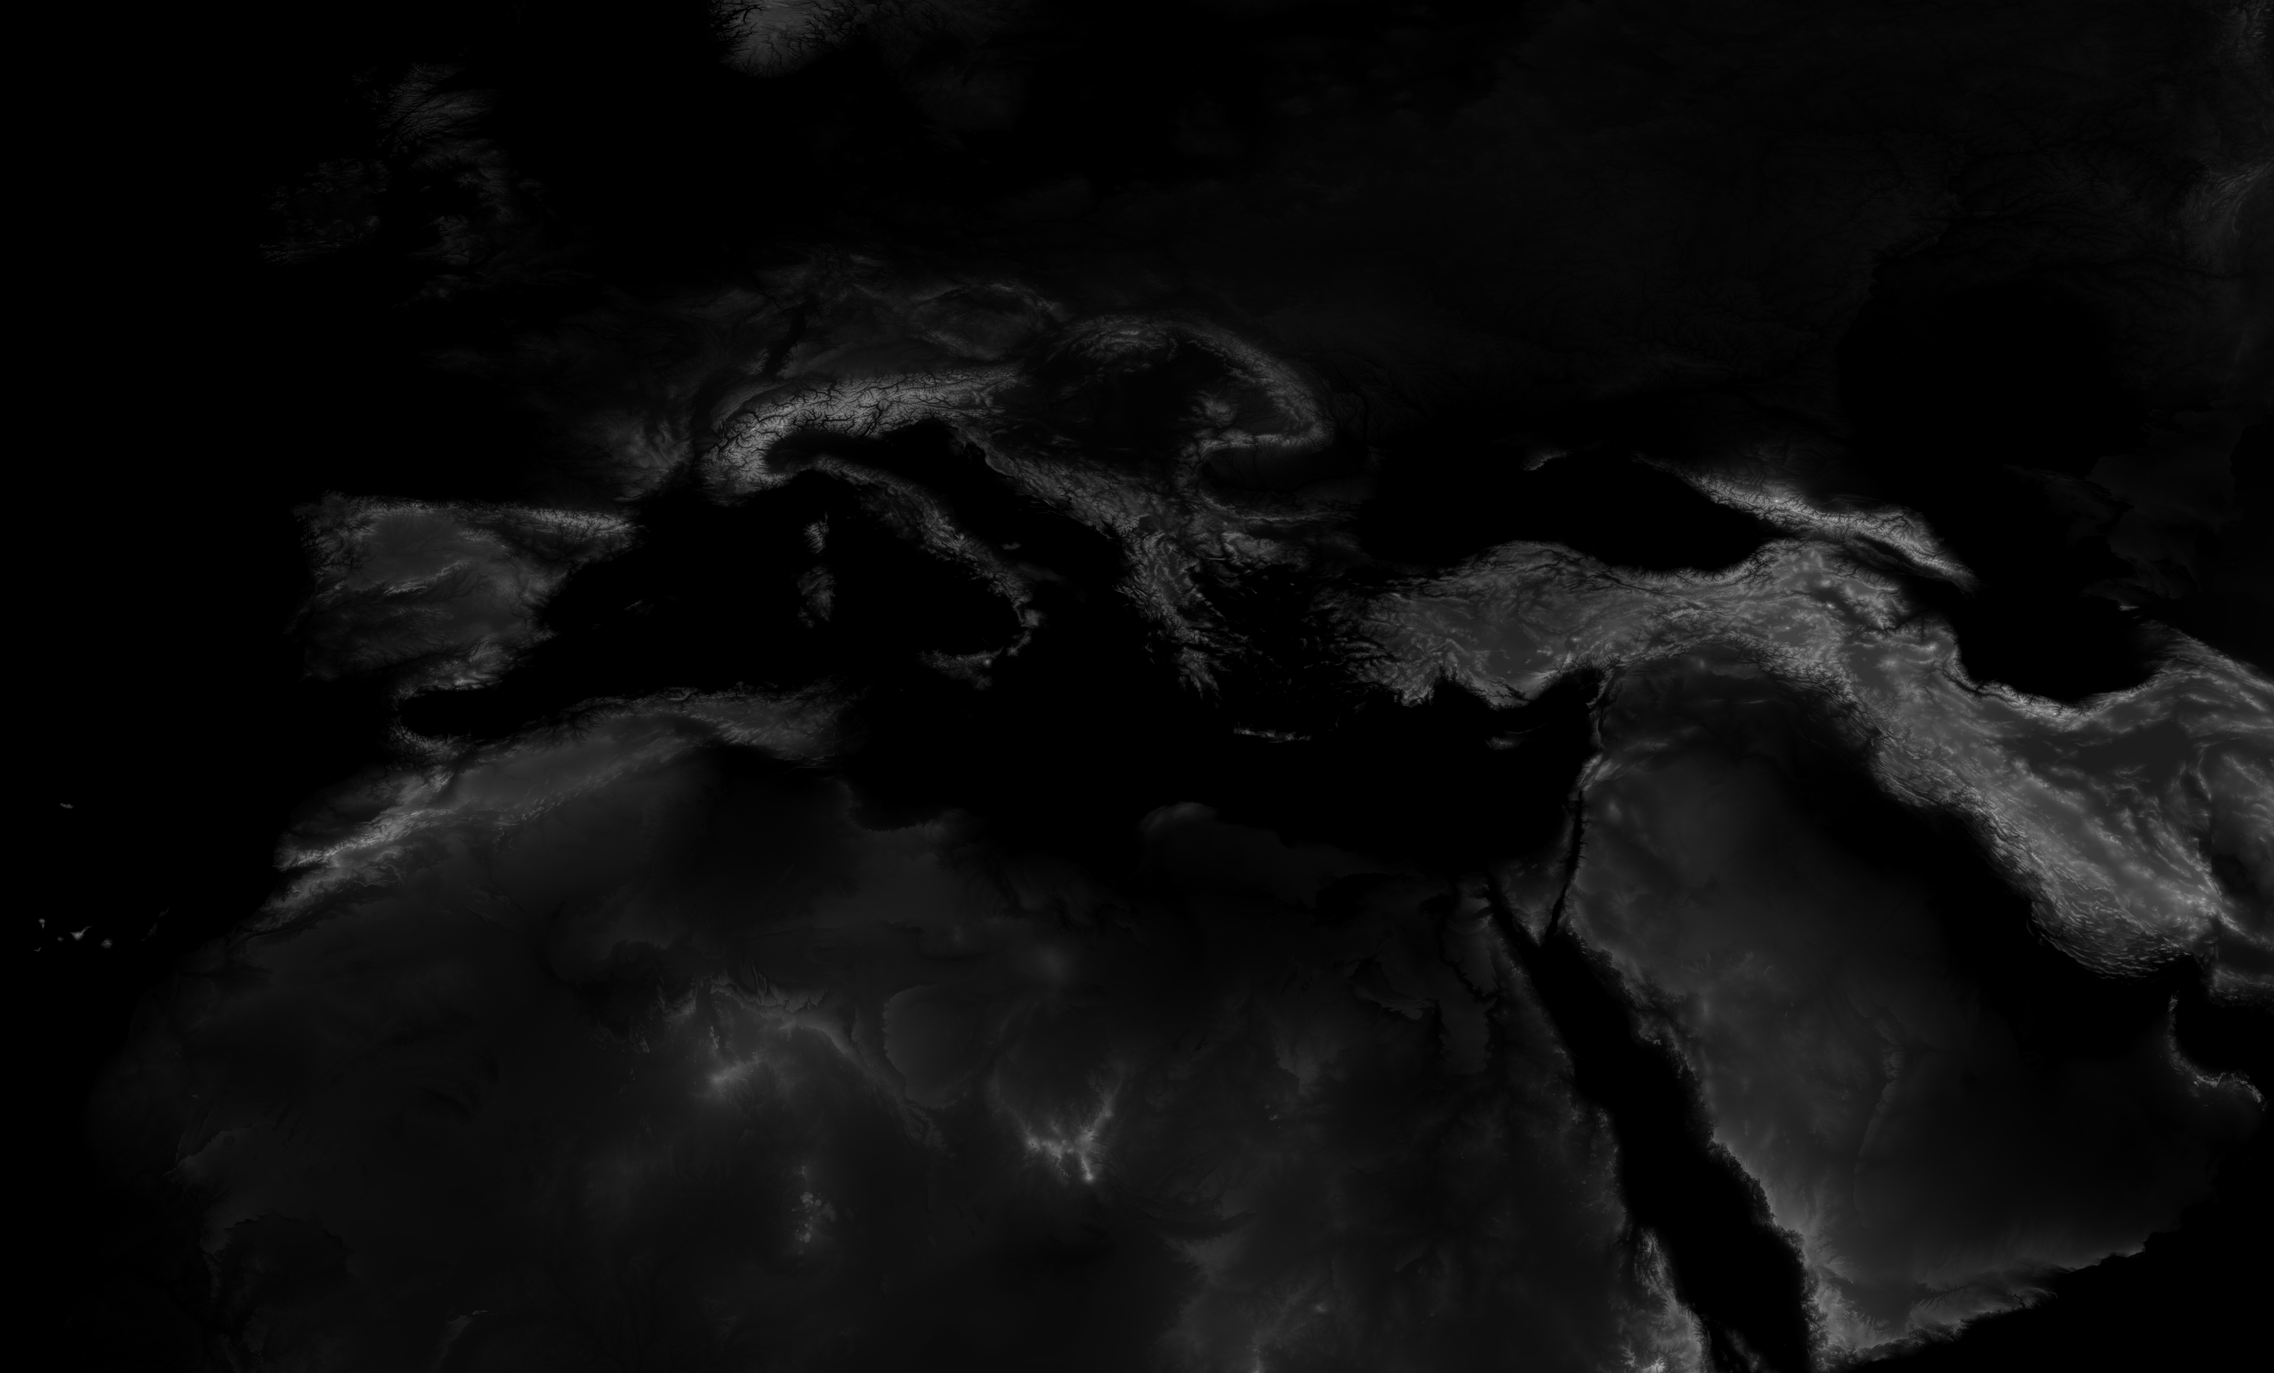
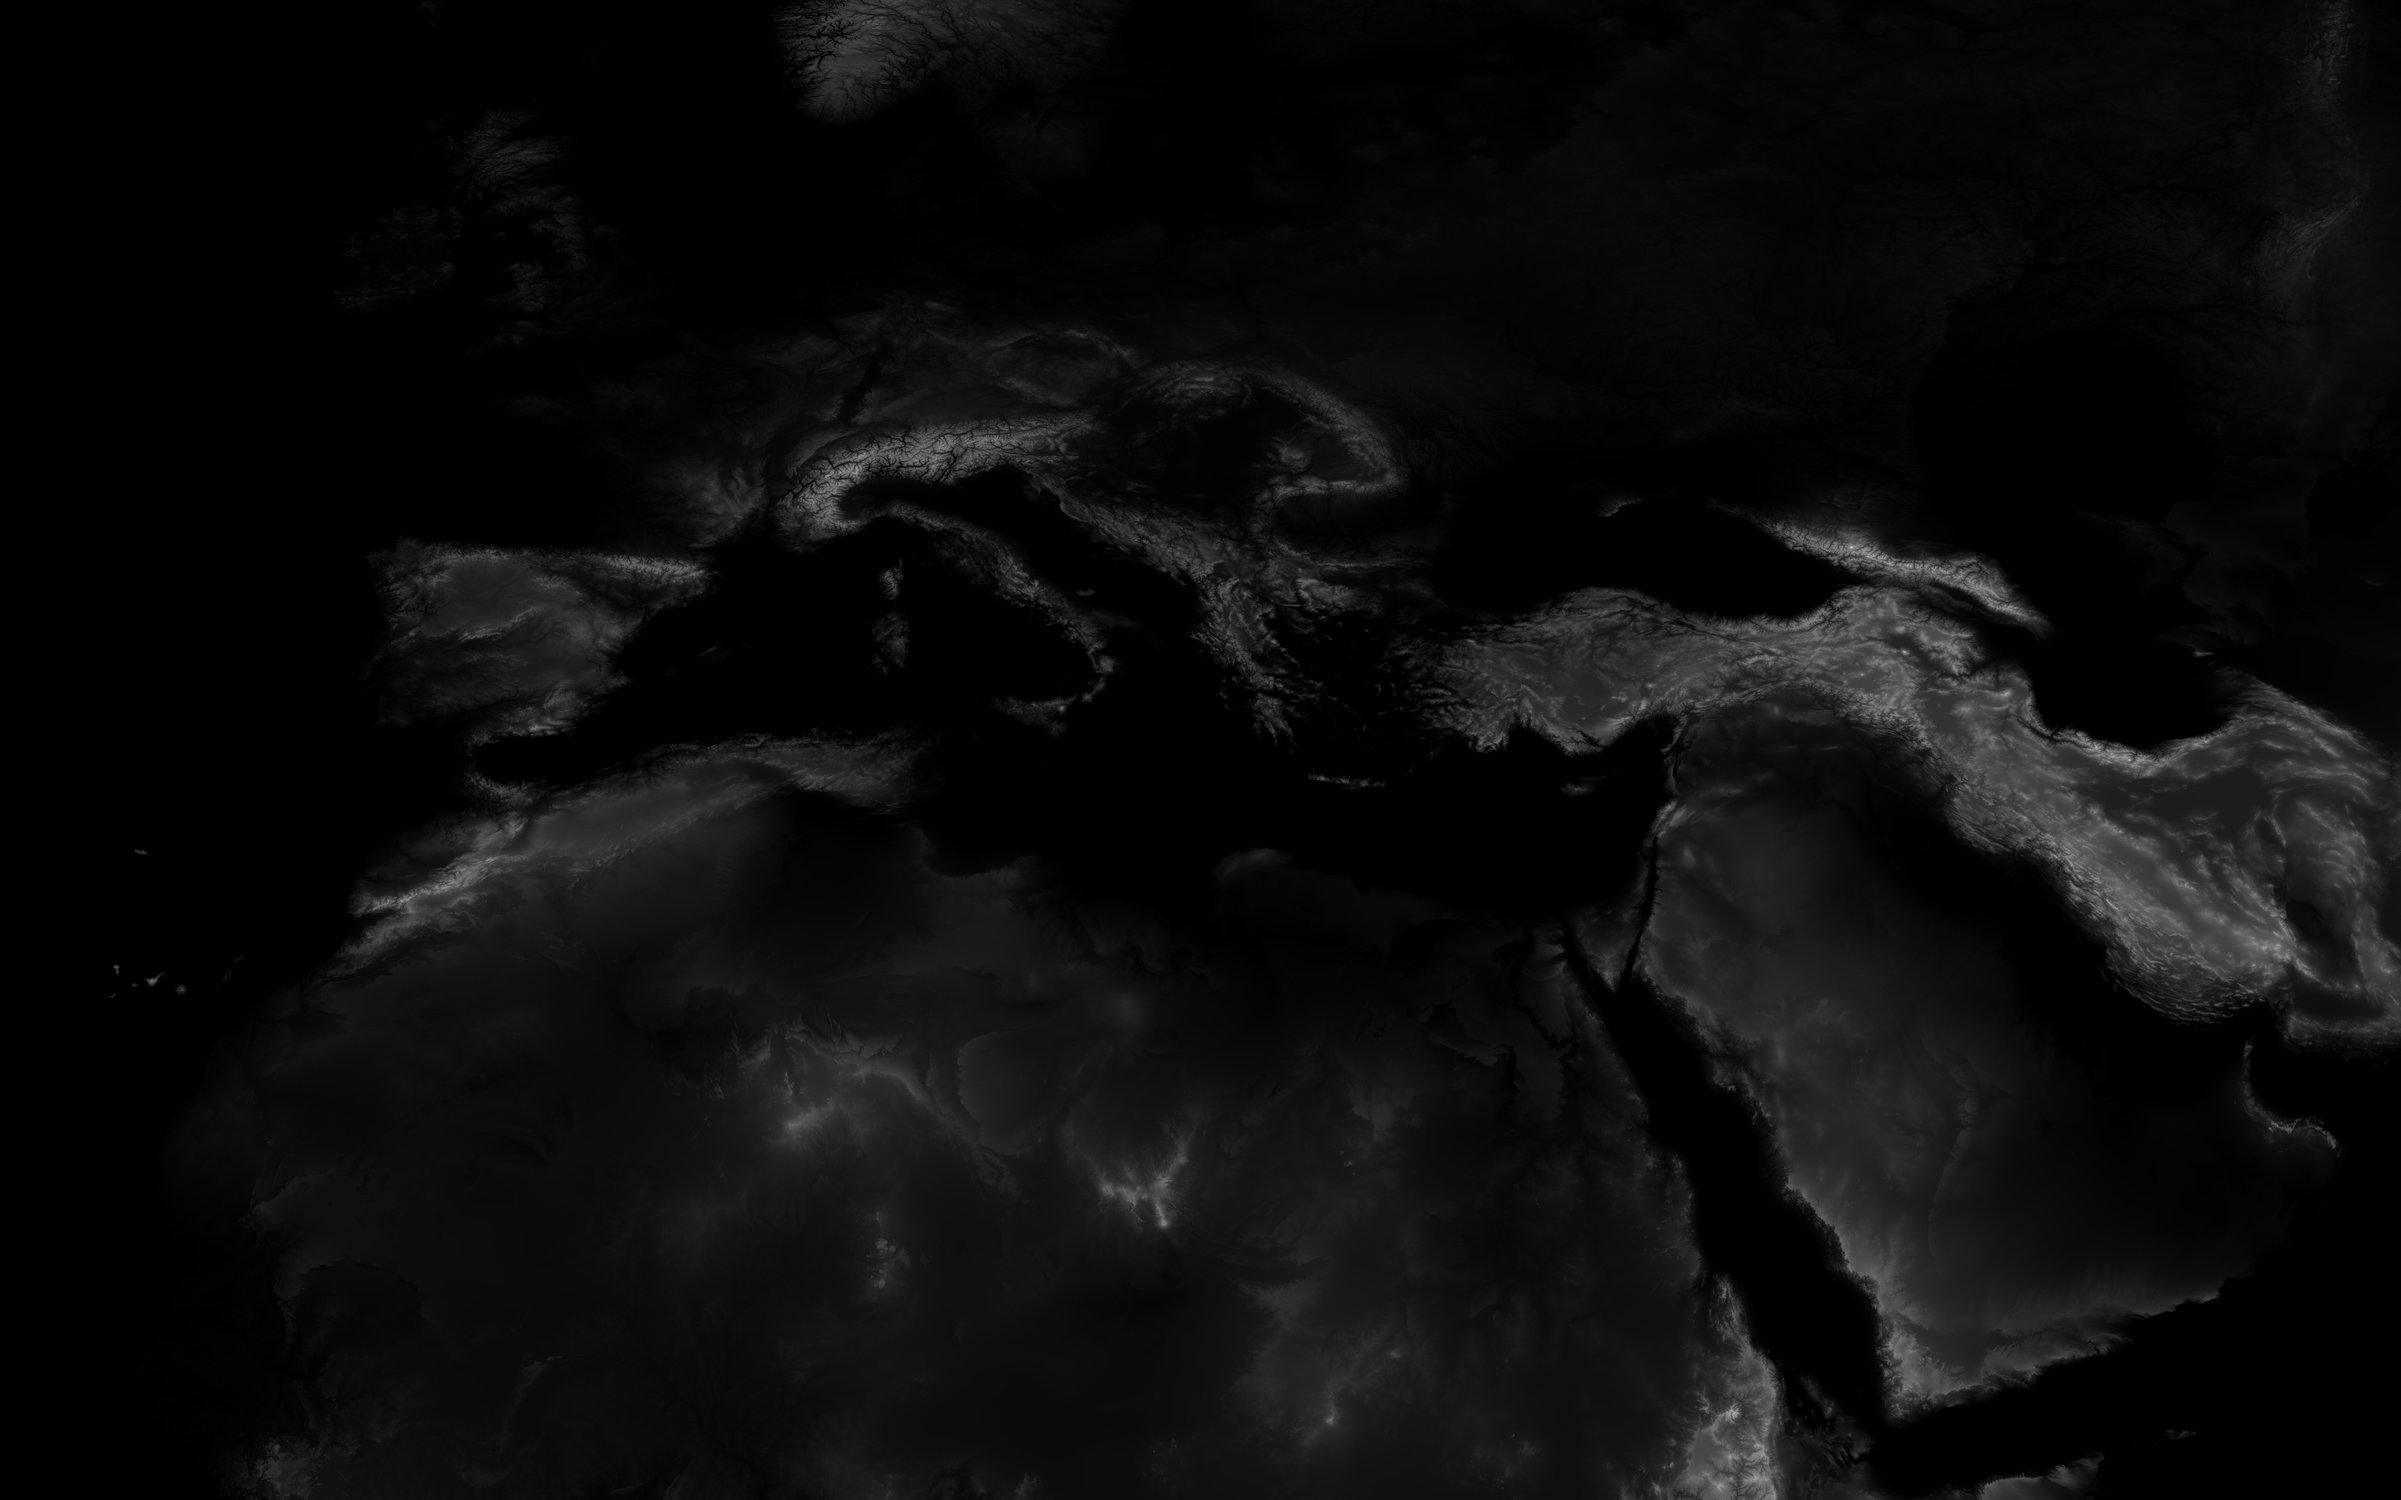
interim

diff --git a/src/map.rs b/src/map.rs
@@ -16,8 +16,8 @@ impl MapGenerator {
         let image = image::load_from_memory(HEIGHTMAP_BYTES).unwrap();
         MapGenerator {
             heightmap: image,
-            chunk_size: 32,
-            resolution: 4,
+            chunk_size: 128,
+            resolution: 128,
         }
     }
 
@@ -31,14 +31,14 @@ impl MapGenerator {
         let mut handles = Vec::with_capacity((x_tiles * z_tiles) as usize);
         for x in 0..x_tiles {
             for z in 0..z_tiles {
-                let top_left = (x * (self.chunk_size - 1), z * (self.chunk_size - 1));
                 let res = self.resolution;
                 let chunk = self.chunk_size;
+                let top_left = (x * chunk * res, z * chunk * res);
                 let top_left_px = ((x * res * chunk) as i32, (z * res * chunk) as i32);
                 let generator = MeshGenerator {
                     heightmap: &self.heightmap,
-                    resolution: self.resolution,
-                    chunk_size: self.chunk_size + 1,
+                    resolution: self.resolution as i32,
+                    side_length: self.chunk_size as i32,
                     top_left_px,
                 };
 
@@ -54,16 +54,16 @@ impl MapGenerator {
 
 pub struct MeshGenerator<'a> {
     heightmap: &'a DynamicImage,
-    chunk_size: u32,
-    resolution: u32,
+    side_length: i32,
+    resolution: i32,
     top_left_px: (i32, i32),
 }
 
 impl MeshGenerator<'_> {
     #[inline]
     pub fn sample(&self, x: i32, z: i32) -> f32 {
-        let img_x = i32::max(0, x * self.resolution as i32 + self.top_left_px.0 - 1);
-        let img_z = i32::max(0, z * self.resolution as i32 + self.top_left_px.1 - 1);
+        let img_x = i32::max(0, x / self.resolution * self.side_length + self.top_left_px.0 - 1);
+        let img_z = i32::max(0, z / self.resolution  * self.side_length + self.top_left_px.1 - 1);
 
         let mut red = self.heightmap.get_pixel(img_x as u32, img_z as u32)[0];
         if red > 0 {
@@ -74,14 +74,14 @@ impl MeshGenerator<'_> {
     }
 
     pub fn create_mesh(&self) -> Mesh {
-        let chunk = self.chunk_size;
-        let chunk_sq = chunk * chunk;
-        let mut positions = Vec::with_capacity(chunk_sq as usize);
-        let mut normals = Vec::with_capacity(chunk_sq as usize);
-        let mut indices = Vec::with_capacity(((chunk - 1) * (chunk - 1) * 2 * 3) as usize);
+        let res = self.resolution;
+        let res_plus_1_sq = (res + 1) * (res + 1);
+        let mut positions = Vec::with_capacity(res_plus_1_sq as usize);
+        let mut normals = Vec::with_capacity(res_plus_1_sq as usize);
+        let mut indices = Vec::with_capacity((res * res * 2 * 3) as usize);
 
-        for z in 0..chunk as i32 {
-            for x in 0..chunk as i32 {
+        for z in 0..res + 1 {
+            for x in 0..res + 1 {
                 let top_left = self.sample(x - 1, z - 1);
                 let top_right = self.sample(x + 1, z - 1);
                 let bottom_left = self.sample(x - 1, z + 1);
@@ -104,12 +104,12 @@ impl MeshGenerator<'_> {
             }
         }
 
-        for z in 0..chunk - 1 {
-            for x in 0..chunk - 1 {
-                let top_left = x + z * chunk;
-                let top_right = x + 1 + z * chunk;
-                let bottom_left = x + (z + 1) * chunk;
-                let bottom_right = x + 1 + (z + 1) * chunk;
+        for z in 0..res as u32 {
+            for x in 0..res as u32 {
+                let top_left = x + z * res as u32;
+                let top_right = x + 1 + z * res as u32;
+                let bottom_left = x + (z + 1) * res as u32;
+                let bottom_right = x + 1 + (z + 1) * res as u32;
 
                 indices.push(bottom_left);
                 indices.push(top_right);

diff --git a/src/main.rs b/src/main.rs
@@ -41,10 +41,10 @@ fn setup(
         });
     }
 
-    let italy = Vec3::new(translation.x() / 2.2, 0.0, translation.z() / 1.75);
-    // 45 degrees
-    let camera_state =
-        rts_camera::State::new_looking_at_zoomed_out(italy, std::f32::consts::PI / 4.0, 128.0);
+    // let italy = Vec3::new(511.8971, 0.0, 316.40378);
+    let italy = Vec3::new(0.0, 0.0, 0.0);
+    let angle = std::f32::consts::PI / 4.0;
+    let camera_state = rts_camera::State::new_looking_at_zoomed_out(italy, angle, 180.0);
     let camera_transform = camera_state.camera_transform();
 
     commands
